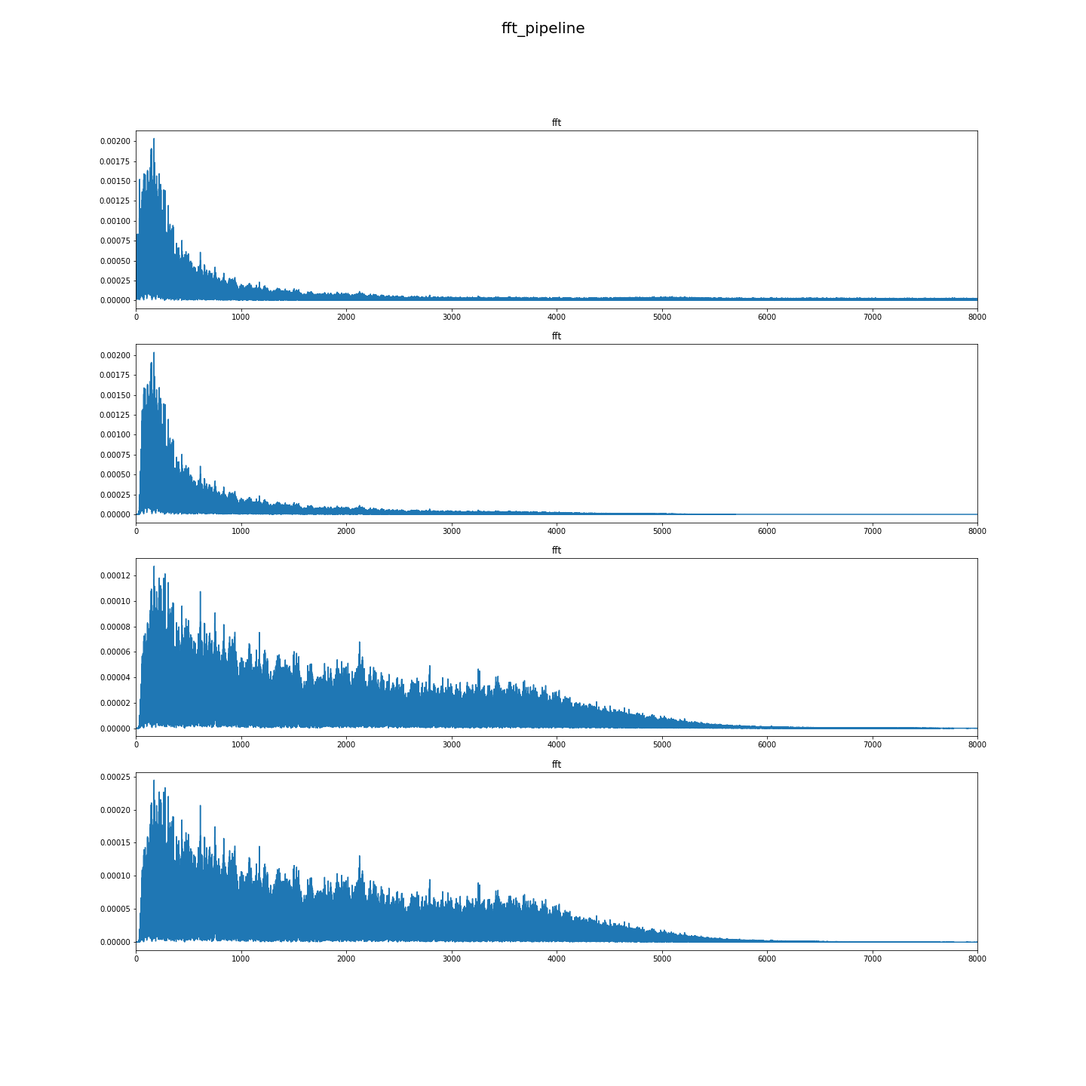
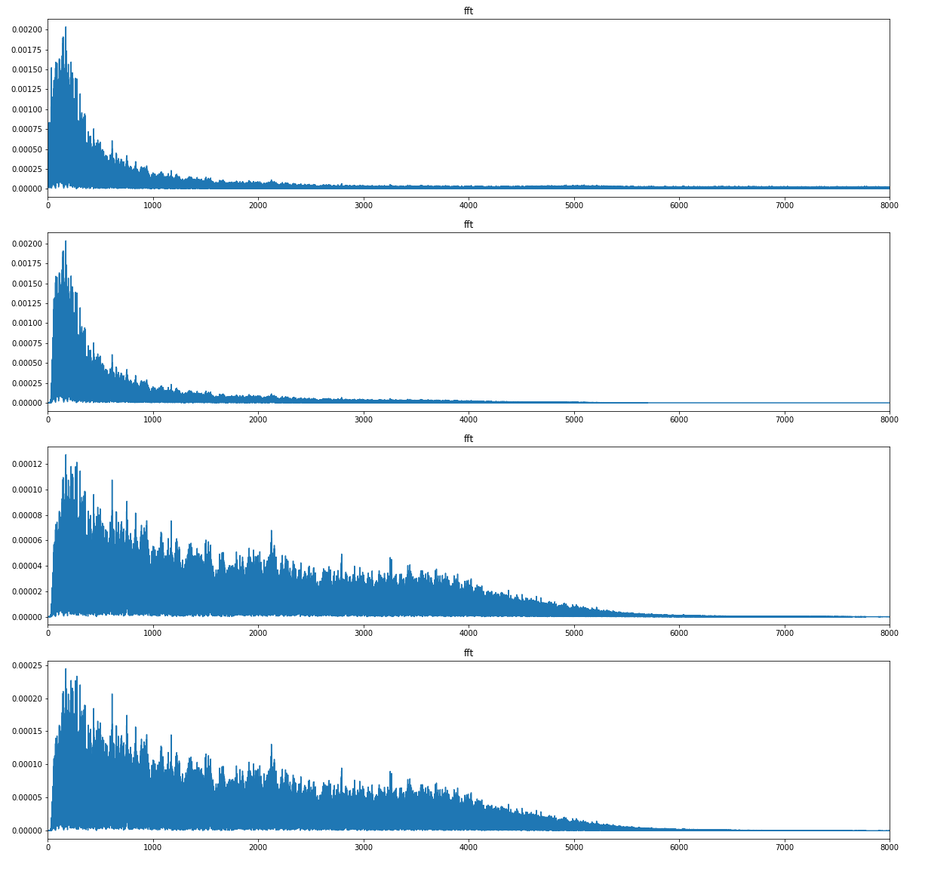
Introduction revised

diff --git a/evaluation.tex b/evaluation.tex
@@ -3,11 +3,11 @@
 Partial work on exploring pre-processing techniques, useful features and classifiers has been done before data is collected from real subjects. The tools and approaches applied for the current stage and the associated results are shown and evaluated as below.
 
 \section{System architecture}
-The system architecture consists of three major parts as shown in Figure \ref{fig:system_architecture}. Data preparation and pre-processing are included in the first part. The pre-processed data is then passed to the second part of the system for feature extraction to obtain the essence of the signal. The last part of the system is responsible for two jobs, classification and estimation. The classifier discriminates the segmentation based on the feature extracted and then estimates the respiration related information such as respiratory phase and frequency. 
+The system architecture consists of three major parts as shown in Fig. \ref{fig:system_architecture}. Data preparation and pre-processing are included in the first part. The pre-processed data is then passed to the second part of the system for feature extraction to obtain the essence of the signal. The last part of the system is responsible for two jobs, classification and estimation. The classifier discriminates the segmentation based on the feature extracted and then estimates the respiration related information such as respiratory phase and frequency. 
 
 \begin{figure}[h]
-    \centerline{\includegraphics[scale=0.45]{figures/system_architecture.png}}
-    \caption{system architecture}
+    \centerline{\includegraphics[scale=0.55]{figures/system_architecture.png}}
+    \caption{A diagram of the system architecture}
     \label{fig:system_architecture}
 \end{figure}
 
@@ -18,34 +18,34 @@ Instead of developing the system on the mobile platform straight away, the exper
 There were also various Python libraries used in this experiment. Librosa is a Python library focused on audio signal processing, it implements most of the popular signal processing approaches and enables easy access to the common spectral features. PyHHT and PyWT were also used for the implementation of Hilbert Huang transform and wavelet transform, respectively. Lastly, Matplotlib is great for visualisation and plots exporting. The spectrograms generated were used as an input for the convolution neural networks.
 
 \section{Dataset preparation}
-Prior to receiving the approval for the ethics application, the mock dataset was initially collected and created from the author during a short running outdoors. The test data consist of 4 .wav audio files which were recorded in 22050Hz with the Ios application named Audio Memos using IPhone 6 and the microphone in the original earpods . The duration of the files varies from 23 to 59 seconds. 
+Prior to receiving the approval for the ethics application, the mock dataset was initially collected and created from the author during a short running outdoors. The test data consist of 4 .wav audio files which were recorded in 22050Hz with the Ios application named Audio Memos using IPhone 6 and the microphone in the original earpods. The duration of the files varies from 23 to 59 seconds.
 
-The exhalation and inspiration segmentation contained in the audio file were manually labelled. However, the markers only represent when the exhalation and inhalation approximately begin. A more precised labelling could be obtained when having the referencing signal data from the actual data collection phase. An example of the test data with respiration phase labels is illustrated in Figure \ref{fig:audio_waveform}.
+The exhalation and inspiration segmentation contained in the audio file were manually labelled. However, the markers only represent when the exhalation and inhalation approximately begin. A more precised labelling could be obtained when having the referencing signal data from the actual data collection phase. An example of the test data with respiration phase labels is illustrated in Fig. \ref{fig:audio_waveform}.
 
 \begin{figure}[h]
     \centerline{\includegraphics[scale=0.35]{figures/audio_waveform.png}}
-    \caption{Audio signal with inhalation starting at yellow markers and exhalation starting at red markers }
+    \caption{An illustration of a respiratory sound signal with manual labelling. Inhalation starts at yellow markers. Exhalation starts at red markers.}
     \label{fig:audio_waveform}
 \end{figure}
 
 \clearpage
-\section{Pre-processing techniques}
-The complete pre-processing pipieline consist of 4 steps which were inspired by these studies.\cite{Lei2014Content-basedFeatures}\cite{Niu2019AState}\cite{Ren2015Fine-grainedSmartphones} The completed results after applying the full pre-processing techniques is shown in Figure \ref{fig:fft_pipeline}.
+\section{Signal processing methods}
+The complete pre-processing pipieline consist of 4 steps which were inspired by these studies.\cite{Lei2014Content-basedFeatures}\cite{Niu2019AState}\cite{Ren2015Fine-grainedSmartphones} The completed results after applying the full pre-processing techniques is shown in Fig. \ref{fig:fft_pipeline}.
 \begin{figure}[h]
-    \centerline{\includegraphics[scale=0.25]{figures/fft_pipeline.png}}
-    \caption{The results of applying the full pre-processing techniques}
+    \centerline{\includegraphics[scale=0.33]{figures/fft_pipeline.png}}
+    \caption{The results of applying the complete signal processing methods.}
     \label{fig:fft_pipeline}
 \end{figure}
 
 \subsection{Band-pass filter}
-The audio files was firstly passed into a band-pass filter which retained the signal with the frequency between 50Hz and 4000Hz. The frequencies that contained in these signals were also examined by applying fast Fourier transform as shown in . According to Figure \ref{fig:fft}, it was clearly shown that the major frequency range was 0-1000Hz.
+The audio files was firstly passed into a band-pass filter which retained the signal with the frequency between 50Hz and 4000Hz. The frequencies that contained in these signals were also examined by applying fast Fourier transform as shown in . According to Fig. \ref{fig:fft}, it was clearly shown that the major frequency range was 0-1000Hz.
 
 \begin{figure}[h]
-    \centerline{\includegraphics[scale=0.25]{figures/fft.png}}
-    \caption{Frequency components of the 4 audio signals}
+    \centerline{\includegraphics[scale=0.33]{figures/fft.png}}
+    \caption{Frequency components of four respiratory sound signals decomposed using Fast Fourier Transform}
     \label{fig:fft}
 \end{figure}
-\subsection{Emphasising}
+\subsection{Emphasis filter}
 To overcome the radiation effects caused mostly by the lips, the signals were applied with a pre-emphasised filter to increase the amplitude of the components in high frequency range. The emphasising was completed by following the convertion below.
 
 EQUATION HERE
@@ -64,51 +64,50 @@ As illustrated in last section, FFT shows the frequency range contained in a sig
 STFT is one of them. The idea behind short time Fourier transform is to apply fast Fourier transform on the signal with a sliding window of fixed length. The spetrogram is then converted to mel-sclaed spectrogram which has a better performance in modelling how humans percept low and high frequency. The comparison between STFT generated spectrogram and its mel-scaled spectrogram is shown in Figure \ref{fig:stft_mel-stft}. The mel-scaled spectrogram provides a more intuitive identification for exhalation than the original spectrogram. The red and yellow markers in the spectrogram represent when exhalation and inhalation begin. It clearly shows that most of the red markers perfectly align with one of the peak in the spectrogram. The red markers which do not associate with any peaks were also hard to distinguish through listening to the audio subjectivly. On the other hand, it is relatively impossible to recognise the inhalation through simply looking at the mel-scaled spectrogram.
 
 \begin{figure}[h]
-    \centerline{\includegraphics[scale=0.6]{figures/stft_mel-stft.png}}
-    \caption{stft vs mel-stft}
+    \centerline{\includegraphics[scale=0.62]{figures/stft_mel-stft.png}}
+    \caption{The spectrograms obtained from using STFT (top plot) and mel-scaled STFT (bottom plot). Inhalation starts at yellow markers. Exhalation starts at red markers.}
     \label{fig:stft_mel-stft}
 \end{figure}
 
-However, STFT is not good for non-stationary signals. Also it has to balance the trade off between the time resolution and frequency resolution. Continuous wavelet transform is a solution to model the relationship between time and frequency of a non-stationary signal. Continuous wavelets transform is a great solution for transient signals since it has good resolution in time and poor resolution in frequency at high frequency. It would be helpful to capture the transients features by adopting continuous wavelet transform. Different wavelet functions influence the results of spectrogram generation. There were three kinds (Gaus, Mexh and Morl) of continuous wavelet function experimented and the results are shown in Figure \ref{fig:wavelet_functions}. It is fairly difficult to identify which wavelet function gives a better result in presenting the signal.
+However, STFT is not good for non-stationary signals. Also it has to balance the trade off between the time resolution and frequency resolution. Continuous wavelet transform is a solution to model the relationship between time and frequency of a non-stationary signal. Continuous wavelets transform is a great solution for transient signals since it has good resolution in time and poor resolution in frequency at high frequency. It would be helpful to capture the transients features by adopting continuous wavelet transform. Different wavelet functions influence the results of spectrogram generation. There were three kinds (Gaus, Mexh and Morl) of continuous wavelet function experimented and the results are shown in Fig. \ref{fig:wavelet_functions}. It is fairly difficult to identify which wavelet function gives a better result in presenting the signal.
 \begin{figure}[h]
-    \centerline{\includegraphics[scale=0.25]{figures/wavelet_trans_wav_func.png}}
-    \caption{Applying different wavelet functions}
+    \centerline{\includegraphics[scale=0.45]{figures/wavelet_trans_wav_func.png}}
+    \caption{The result of applying different wavelet functions to a respiratory sound signal}
     \label{fig:wavelet_functions}
 \end{figure}
 
+\clearpage
 \subsection{Temporal features}
-Segmentation energy is the only temporal feature which has been implemented and evaluated so far. It helps to discriminate voiced and unvoiced segmentations. It could significantly reduce time spent in computation by disregarding the unvoiced segmentation in classification. The energy of the segmentation of a signal is shown in Figure \ref{fig:energy} This audio signal is 23s long containing 2678 segmentations. By setting energy threshold to the mean of the segmentation energy, only 309 segmentations were left still including most of around 90\% of the inhalation and exhalation segmentations. 
+Segmentation energy is the only temporal feature which has been implemented and evaluated so far. It helps sto discriminate voiced and unvoiced segmentations. It could significantly reduce time spent in computation by disregarding the unvoiced segmentation in classification. The energy of the segmentation of a signal is shown in Fig. \ref{fig:energy} This audio signal is 23s long containing 2678 segmentations. By setting energy threshold to the mean of the segmentation energy, only 309 segmentations were left still including most of around 90\% of the inhalation and exhalation segmentations. 
 Segmentation energy is an effective feature in screening voiced and unvoiced segmentation. 
+
+Equation here
 
 \begin{figure}[h]
     \centerline{\includegraphics[scale=0.35]{figures/energy.png}}
-    \caption{Energy of segmentations}
+    \caption{The blue line on the top plot represents the segmentation energy for all segmentations of a respiratory sound signal. The navy colour markers on the bottom plot correspond to the segmentations having higher energy than the energy threshold.}
     \label{fig:energy}
 \end{figure}
 
 \section{Data respresentation}
-In order to generate training data for CNN, the spectrogram of the audio files which represent the segmentations of inhalation and exhalation will be generated and saved in coresponding folders on the Google drive for easy access from Colaboratory. In total, there were 51 inhalation segmentations and 54 exhalation segmentation which were created from four respiration sound files. 20\% of the segmentation were randomly selected and then used as test data.
+In order to generate training data for CNN, the spectrogram of the audio files which represent the segmentations of inhalation and exhalation will be generated and saved in coresponding folders on the Google drive for easy access from Colaboratory. In total, there were 51 inhalation segmentations and 54 exhalation segmentation which were created from four respiration sound files. 20\% of the segmentation were randomly selected and then used as valid data. Partial dataset is shown in Fig. \ref{fig:dataset}
+
+\begin{figure}[h]
+    \centerline{\includegraphics[scale=0.8]{figures/dataset.png}}
+    \caption{Partial dataset (Spectrograms titled as 'in' represents an inhalation data. Spectrograms titled as 'out' represents an exhalation data.}
+    \label{fig:dataset}
+\end{figure}
 
 \section{Classification}
-To quickly investigate the feasibility of classifying respiration sound using audio files generated spectrograms, thrid-party deep learning library FastAI was selected for implementation. Instead of training a nerual network from scratch, resnet18 which is a variation of convolutional neural network was used for the purpose of transfer learning. 
+Being able to correctly discriminate the sound of inhalation and exhalation is the foundation of providing respiration-related information such respiratory phase and depth. To quickly explore the feasibility of classifying respiration sound using audio files generated spectrograms, FastAI was selected for implementation. FastAI is a high-level deep learning framework enables fast and easy process in deep learning model training and analysing. 
+
+Transfer learning allows taking advantage of past experience from previous training. FastAi provides pre-trained models for transfer learning without developing and training a nerual network from scratch. Resnet34 is a variation of convolutional neural network was used in this phase. \cite{He2016DeepRecognition}
+
+The performance of the training phase was evaluated through three characteristics training loss, valid loss and acciracy. The model was trained for 10 epochs and the final accuracy achieved over the validation dataset was 66\%. Even the loss on the training dataset decreased over the epochs but it was significantly higher than the loss on the validation dataset. It was likely to be a sign of underfitting which suggested that the model didn't learn enough characteristics for classification from the dataset prepared. It might also imply that the classification model is not ideal for respiration data. However, the classification results were obatined without fine-tunning. Approaches used to improve classifier's performance is described in the next chapter. 
 
 \begin{figure}[h]
     \centering
     \includegraphics[scale=0.6]{figures/classification_results.png}
-    \caption{Classification results}
+    \caption{Results after ten epochs training.}
     \label{fig:classification_results}
 \end{figure}
-
-Why the rate is low
-
-pre-processing approach filtered out some wanted frequency components
-
-dataset too small
-
-structure
-
-\section{Estimation}
-
-phase
-
-respiratory frequency how to calculate

diff --git a/review.tex b/review.tex
@@ -1,27 +1,33 @@
 \chapter{Review of Relevant Work}
 
 \section{Respiration in sport monitoring}
-As exercise begins, the increase in lung ventilation (breathing) is directly proportional to the intensity of exercise and metabolic needs. This is shown on the adjacent chart. Note that lung ventilation is expressed as the number of air inhalations (L / min) inhaled and exhaled per minute. Increase ventilation in two ways to meet your workout needs:1. The increase in "tidal volume" refers to the amount of air inhaled and exhaled per breath. This is similar to the "wheeze amount" in the cardiovascular system.2. The increase in "breathing or respiration rate" refers to the number of times each person completes inhalation and exhalation per minute. This is similar to the "heart rate" in the cardiovascular system. If exercise is intense, the breathing rate may increase from a typical rest rate of 15 breaths per minute to 40-50 breaths per minute. The most common measure of exercise and respiratory function is called VO2 (oxygen uptake). VO2 refers to the amount of oxygen absorbed and used by the body. With continuous exercises (duration longer than 1 minute), such as aerobic fitness, longer anaerobic fitness and lesser muscle endurance training, VO2 increases linearly with increasing exercise intensity. This is because as the movement continues, more and more oxygen is relied on to help provide energy. As the intensity of exercise continues to increase, one reaches the highest point beyond which oxygen consumption does not increase further. This point is called VO2 max, as shown in the figure below. The training type has medium intensity, lasts longer (longer than 1 minute), and has short or no rest throughout the process, which forms the so-called "EPOC". EPOC stands for "oxygen consumption after excessive exercise" and is related to the need to keep oxygen consumption at the end of the exercise at a rate greater than the resting rate to compensate for the oxygen "debt" generated at the beginning of the exercise. We will explain more about the chart below. It may take 10-20 minutes after exercise to restore normal breathing rate through hypertrophy training.
-
-Unlike other physiological measures, such as heart rate, blood pressure, and ECG signals, respiratory frequency is usually neglected during sports training monitoring. The study conducted by Nicolo et al suggested that respiratory frequency and physical effort has the strongest correlation compared to other physiological measures.\cite{Nicolo2017RespiratoryMeasure} The study showed that by extracting information from the respiration frequency, it is possible to analyse athletes' performance from an more advanced perspective.
-
+Minute ventilation is defined as the amount of air inhaled into body in one minute. It is expressed as the product of tidal volume and respiratory frequency. Tidal volume refers to the amount of air inhaled per breath. Respiration frequency is the number of breaths taken in one minute \cite{Zuurbier2009MinuteStudy}. The research conducted by Nicolo et al showed that breathing pattern is affected by the setting of training, such as intensity, duration and resting time \cite{Nicolo2018RespiratoryInterdependence}. As exercise begins, the increase in ventilation is directly proportional to the intensity of exercise in order to meet metabolic needs. The respiratory frequency may increase from a typical rest rate of 15 breaths per minute to 40-50 breaths per minute. Unlike other physiological measures, such as heart rate, blood pressure, and ECG signals, respiratory frequency is usually neglected during sports training monitoring. Respiratory frequency and physical effort has the strongest correlation compared to other physiological measures according to Nicolo et al \cite{Nicolo2017RespiratoryMeasure}. Their study also showed that by extracting information from the respiration frequency, it is possible to analyse athletes' performance from an more advanced perspective.
 
 \section{Respiration in clinical monitoring}
-
 Breathing is an essential activity for our body which allows the air exchange between the human body and the external environment. There are mainly two functions supported by the respiratory system, providing oxygen to the tissues of body and eliminate carbon dioxide from the tissues of the body. 
 
-Two common forms for breathing includes chest breathing and abdominal breathing. One complete breath cycle includes an inhalation and an exhalation. The number of breaths per minute is called the respiratory rate. Respiratory frequency refers to the number of breaths per minute. The respiratory frequency of an adult at rest is approximately 12-18 breaths per minute and 30-40 breaths per minute for children. Adults who have a respiratory frequency of more than 20 breaths per minute may be in unhealthy conditions. A respiratory frequency of over 24 breaths per minute indicates serious health issues. It was also reported that a respiratory frequency over 27 breaths per minute is very likely to associate with cardiac arrest.\cite{Cretikos2008OfMBA} Therefore, by detecting the respiratory frequency of the athletes after training, it is beneficial to ensure their health and timely detection of abnormal physical conditions. Therefore, respiratory frequency is an indicator of some serious illnesses.
+Two common forms for breathing includes chest breathing and abdominal breathing. One complete breath cycle includes an inhalation and an exhalation. Respiratory frequency refers to the number of breaths per minute. The respiratory frequency of adults at rest is approximately 12-18 breaths/minute and 30-40 breaths/minute for children at rest. Adults who have a respiratory frequency of more than 20 breaths/minute may be in unhealthy conditions. A respiratory frequency of over 24 breaths/minute indicates serious health issues. It was also reported that a respiratory frequency over 27 breaths/minute is very likely to associate with cardiac arrest \cite{Cretikos2008OfMBA}.  Therefore, by detecting the respiratory frequency of the athletes after training, it is beneficial to ensure their health and timely detection of abnormal physical conditions. Therefore, respiratory frequency is an informative indicator in clinical monitoring.
 
-\section{Methods for respiratory frequency measurement}
-Most of the solutions on the market are expensive and not suitable for everyday life, and some products are invasive, which is not available for outdoor use. The approaches widely used to measure respiratory frequency are mainly divided into two categories, one is direct measurement and the other is indirect measurement.The parameters considered in direct measurement includes respiratory airflow, respiratory sound, air temperature, air humidity and air components, chest-wall movement, cardiac activity (electrocardiography and photoplethysmography) are considered in indirect measurement. 
-\cite{Massaroni2019Contact-BasedRate} 
+\section{Methods of measuring respiratory frequency}
+Most of the solutions on the market are expensive and not suitable for everyday life, and some products are invasive, which is not available for outdoor use. The approaches widely used to measure respiratory frequency are mainly divided into two categories, one is direct measurement and the other is indirect measurement.
 
-These two types of solutions have very clear concerns. In the study completed by Massaroni, the accuracy and main advantages and disadvantages of these methods in different environments were compared. Breathing airflow-based solutions have the best performance in terms of accuracy, but they are invasive and inconvenient to use outdoors or in unstructured environments. Solutions based on air temperature, humidity and composition can provide sufficient accuracy, but are greatly affected by the environment, whether indoors or outdoors. However, solutions based on chest motion and cardiac activity can support acceptable measurements both indoors and outdoors, depending on the implementation, but if the accuracy is disturbed by motion. Respiratory sound-based solutions are also of interest to this research, providing adequate measurement performance both indoors and outdoors, but are susceptible to environmental disturbances. As the popularity of smartphones grows, more and more sports and medical-related applications appear on mobile platforms.
+The parameters considered in direct measurement includes respiratory airflow, respiratory sound, air temperature, air humidity and air components, chest-wall movement, cardiac activity (electrocardiography and photoplethysmography) are considered in indirect measurement \cite{Massaroni2019Contact-BasedRate}.
+
+These two types of solutions have very clear concerns. 
+
+In the study completed by Massaroni, the accuracy and main advantages and disadvantages of these methods in different environments were compared.
+
+Breathing airflow-based solutions have the best performance in terms of accuracy, but they are invasive and inconvenient to use outdoors or in unstructured environments. 
+
+Solutions based on air temperature, humidity and composition can provide sufficient accuracy, but are greatly affected by the environment, whether indoors or outdoors. 
+
+However, solutions based on chest motion and cardiac activity can support acceptable measurements both indoors and outdoors, depending on the implementation, but if the accuracy is disturbed by motion. 
+
+Respiratory sound-based solutions are also of interest to this research, providing adequate measurement performance both indoors and outdoors, but are susceptible to environmental disturbances. As the popularity of smartphones grows, more and more sports and medical-related applications appear on mobile platforms.
 
 Of all the solutions mentioned above, only the breathing sound is the easiest to collect indoors and outdoors, because only the microphone is needed, and other parameters require additional sensors to acquire, which creates an additional barrier for measuring respiratory rate. . If it is possible to reduce noise from the surrounding environment, it is possible to expand the method based on breathing sound and improve accuracy. This is also one of the main goals of this research.
 
-
-\section{Applications for extraction of respiration information}
+\section{Applications of extracting respiration information}
 A vast amount of studies have proven that the acoustic signals of breathing carry a lot of information about human health that can be used in classifiers to identify unhealthy people and determine the severity of the disease. In these studies, commercial headset microphones or smartphones built-in microphones. According to their experimental results, the signals collected by these devices are enough to be used to extract respiratory-related information. The researches that utilise the acoustic respiratory signal for different applications are reviewed as followed as guidelines for this study.
 
 \subsection{Disease screening}

diff --git a/summary.tex b/summary.tex
@@ -1,81 +1,39 @@
-\chapter{Summary and Future Research Plan}
+\chapter{Summary and Plan of Future Research}
 \section{Summary}
 So far, after a large number of relevant research literatures have been evaluated and the analytical methods used in the relevant studies have been considered, this study decided to use the spectrogram generated by the respiratory sound signal to estimate the frequency of breathing with CNN, to determine the stage of breathing and The depth of breathing. The work currently done includes the development of ethics proposal, the collection and labelling of test data, and the use of Colaboratory for prototyping of different signal processing, dataset generation and classifier processes. The results of the tests show that the data sets generated by manual annotation are sufficient for training of classification, and the various methods used in the signal processing flow are very effective. The signal processing flow preserves the respiratory-related frequency components while removing unwanted frequency components. Finally, through the transfer learning, using the Resent model provided by Fastai to distinguish whether a sound is an exhalation sound or an inhalation sound. The performance of the classifier trained with the test data achieved over 50\% accuracy without any fine tuning. After being able to judge the breathing phase, the frequency of breathing can be estimated accordingly.
-\section{Future research plan}
-Future research work focuses on preparing data, comparing other combinations of signal processing methods, and various machine learning, such as support vecter machine. The details of each of the focuses is discussed in the follow sections.
-\subsection{Dataset generation}
+\section{Plan of future research}
+Future research work focuses on preparing dataset, comparing other combinations of signal processing approaches, and various machine learning model, such as support vecter machine and random forest. The details of each of the focuses is discussed in the follow sections.
 
-labelling where the in/out starts by aligning the audio signal with the reference signal
+\subsection{Dataset preparation}
 
-Conventional data augmentation includes scaling, stratching, cropping and etc. However, the data augmentation for audio-generated spectrogram image uses completely different mechanisims.
+The classifier's performance was likely affected by the inaccurate and uncompleted labelling on the signal. It is crucial to have a clear idea that when the inhalation and exhalation start and end. Thus, the labelling work at next phase will be carried out by aligning the acoustic respiration signal with the reference signal. Also different size of segmentation would be tested.
 
-\subsection{Signal pre-processing}
-segmentation size
+The purpose of data augmentation is to increase the variety of the dataset especially when the dataset is small. Conventional data augmentation methods includes applying scaling, stratching, cropping on the original images. However, the data augmentation for audio-generated spectrogram image follows different methodologies. Data augmentation has not yet been implemented in this work. However, some research has been done in exploring approaches creating additional data based on existing dataset.\cite{Cho2017DeepBreathSettings} \cite{Schluter2015ExploringNetworks} According to the study undertaken by Schluter and Grill, the most effective augmentation approach is pitch shifting. By also combining the time stretching and random frequency filtering, it could reduced the error signifcantly between 10 and 30\%.\cite{Schluter2015ExploringNetworks}
 
+\subsection{Signal processing}
+new signal processing methods like Hilbert huang transform
 
-Hilbert huang transform
+A results-driven methodology will be applied by evaluating the classification results from different combination of signal processing 
 
-explore different combination of signal processing approach
+To find the most effective 
 
 \subsection{Feature extraction}
-Excepting  
-
-ddiscriminating the respiratory phase 
-
-LPC feature
-
-perceptual feature (Per)
-
-cepstral (Cep) features
-
-perceptual and cepstral (PerCep) features 
-
-enhanced hybrid perceptual and cepstral (PerCepD) features.
-
-spectural bandwidth
-spectral rolloff
-spectral centriod
-spectral contrast
-spectral flatness
-spectral mfcc
-spectral mfcc delta
-spectral mfcc delta of delta
-
-\subsection{Data augmentation}
-The purpose of data augmentation is to increase the variety of the dataset especially when the dataset is small. Unlikely traditional image augmentation, cropping, zooming and scaling do not work well and even creating data with misleading labels. 
-
-Data augmentation has not yet been implemented in this work. However, some research has been done in exploring approaches creating additional data based on existing dataset.\cite{Cho2017DeepBreathSettings} \cite{Schluter2015ExploringNetworks}
-
-According to the study undertaken by Schluter and Grill, the most effective augmentation approach is pitch shifting. By also combining the time stretching and random frequency filtering, it could reduced the error signifcantly between 10 and 30\%.\cite{Schluter2015ExploringNetworks}
+Apart from classifying the respiratory sound based on audio-generated spectrograms it is also one of the objectives to achieve the classification with shallow features. Lei suggested that a combination of different categories of feature outperform a individual catergory of feature.\cite{Lei2014Content-basedFeatures} An enhanced features set including LPC, perceptual and cepstral features were created in their experiment. A number of spectral features are implemented in Librosa library, such as spectral bandwith, spectral mfcc and spectral mfcc delta. The information gain of the features would be evaluated in order to create the most relevant feature sets for the detection of the breathing sound.
 
 \subsection{Classification}
-continue to use CNN when formal data is collected
-experiment other machine learning for performance comparasion
+The classifier experimented has show a great potential in discriminating respiratory sound. It is planed to continue to use Resnet34 when formal data is collected at the next phase. More work will be carried on experimenting different hyper-parameters such as learning rate, number of layers and so on to solve the issue of under-fitting at present.
 
-SVN
+As mentioned above, this study also aims to experiment with other machine learning models for performance comparison, such random forest and support vector machine. 
 
-random forest and support vector machine
-
-information gain
-combination of different features
-
+\subsection{Estimation}
+Respiratory frequency is defined as 60/(time interval between current and previous breath (seconds) (5.1))\cite{Mason2002SignalMonitoring}
 
 \subsection{Mobile application development}
+Once the prototyped classifier's performance is satisfying, it is aimed to transfer the complete solution to mobile platform to provide respiration-related information in real-time. By taking advantage of FastAI, the model created and trained could be directly exported to Ios system via CoreML with no training required on the mobile devices.
 
-The model created and trained with Fastai will then be exported to Core ML which is a machine learning suite provided by Apple.
+Due to the limitation of resource in computing, computational complexity should be taken into account. Therefore, it requires some optimisation for balance the performance regarding the time taken in classification and its accuracy. For example, down-sampling the signal and downsizing the segmentation are both able to reduce the space required to represent the data. Moreover, the experiment conducted by Niu et al showed a great performance of using grey-scaled spectrogram in classifying breathing signal from subjects with different mental states.\cite{Niu2019AState} So it is valuable to transfer the coloured spectrogram to grey-scaled in future training. 
 
-To transfer the complete solution to mobile platform where the computation resource is limited. 
-
-CNN image grey scale
-CNN levels
-
-High sampling rate results in large audio files which requires a lot of computing resource 
+Excepting manipulating the data size needed to be processed, having a deep learning model with less layers is able to reduce the computational complexity. The research undertaken by Ravi et al suggested a high performance and mobile friendly solution by utilising the combined feature set of features learnt from CNN and shallow features.\cite{Ravi2017ADevices}sThis approach would be take into account if the classifier's performance drops after adjust its structure.
 
 
-It is necessary to explore 
 
-aim to provide respiration-related information in real-time. therefore data size and computational complexity and time taken should be taken into account.
-
-It might require some optimisation for fulfil the requirements. either reduce the size of the data used to represent or reduce the number of layers
-
-also try embedded model (weighted model)

diff --git a/introduction.tex b/introduction.tex
@@ -1,22 +1,19 @@
 \chapter{Introduction}
 \section{Aim}
-The market has great demand for affordable, easy-to-use devices that can be used indoors and outdoors for respiratory frequencies measurement. This research aims to develop a mobile application that utilises the acoustic respiration signals collected by a headset’s microphone to estimate the respiratory frequency and detect the respiratory phase. The application is designed to be capable of delivering reliable results indoors and outdoors in real time.
+The market has great demand for reliable, portable and affordable instruments that is capable for respiratory frequency measurement indoors and outdoors. This research aims deliver an alternative solution by developing a mobile application that utilises the acoustic respiration signals collected from a headset’s microphone to estimate the respiratory frequency and detect the respiratory phase in real-time. 
 
 \section{Motivation}
-In areas such as sports training monitoring and clinical monitoring, respiratory frequency is a significant indicator because it carries a lot of useful information about athletes' performance and potential diseases. It is also essential to identify the respiratory phase, which can help us analyse the user's breathing pattern, thus helping them to improve their breathing approaches and achieve the goal of improving their performance. The conventionally applied principles of estimating respiratory frequency mostly measure the airflow of breathing, the expansion of the chest wall and abdominal cavity, and the air temperature or humidity around the nose.\cite{Massaroni2019Contact-BasedRate} Most of the commercially available products are expensive and complicated, which is not suitable for daily-life usage. There have been many studies demonstrating that the acoustic signal of respiration contains enough features for the estimation of respiratory frequency and the detection of the respiratory phase.\cite{Hamke2019DetectingMachines} \cite{Kaur2017UseRespiration}\cite{Ren2015Fine-grainedSmartphones} It suggests a user-friendly, low-cost, and reliable solution to extract respiration-related information from respiration sound. 
+In areas such as sports training monitoring and clinical monitoring, respiratory frequency is a significant measure because it contains informative indicators about athletes' performance and potential diseases. Efficient breathing approaches could contribute to athletes' performance, thus it is also essential to identify respiratory phases and analyse breathing patterns. Methods of estimating respiratory frequency widely applied include measuring the airflow of breathing, the expansion of chest wall and abdominal cavity, and the air temperature or humidity around nose \cite{Massaroni2019Contact-BasedRate}. Most of commercially available products are expensive and complicated, which are not suitable for daily-life usage. 
+
+Being able to classify inhalation sound and exhalation sound is the foundation of estimating respiratory frequency and detecting respiratory phase. There have been many studies demonstrating that acoustic respiration signal contains enough features for being used in discriminating inhalation sound and exhalation sound \cite{Hamke2019DetectingMachines}\cite{Kaur2017UseRespiration}\cite{Ren2015Fine-grainedSmartphones}. It suggests a user-friendly, low-cost, and reliable solution to extract respiration-related information from respiration sound. 
 
 \section{Objectives}
-The gold standard device for measuring respiratory frequency is a mask for measuring the amount of lung respiration. This device covers a person's nose and mouth with a mask, and then measures the respiratory rate and respiration according to the air throughput in the mask. informational. However, our method requires placing the microphone between the mouth and the nose, and it is also surrounded by the mask. The respiratory acoustic signal collected by the microphone and the signal collected without the mask will be quite different, because the background noise is somewhat isolated by the mask. At the same time, the mask is not suitable for outdoor measurements. Therefore, we need a measurement tool that is also a comparison tool that does not cover the mouth and nose and can work outdoors. There are many such solutions on the market, such as vests that use the chest and abdomen to expand as they breathe. Although some work has verified the effectiveness of these products, their experiments are not objective enough. Therefore, the first objective is to 
+To investigate the feasibility of bringing a low-cost, intuitive and portable respiration monitoring solution. The major objective of this study is
 \begin{itemize}
-\item compare the difference in accuracy between the band and the mask in estimating respiratory frequency while running and standing still
+\item to design and develop a mobile-friendly solution that estimates respiratory frequency and determine respiratory phase and respiratory depth by utilising the acoustic respiration signal collected from headset’s microphone during running or resting.
 \end{itemize}
 
-To investigate the performance of the product when measuring different respiratory frequency, the second objective is 
+It is also required to have respiratory frequency measures from other industry standard or gold standard instruments for labelling and referencing. The instruments used as comparison should not obstruct the respiratory sound collecting process, for example covering nose and month area. There are some solutions meeting our requirements, such as Equivital TnR suite which is selected as an industry standard instrument in this study \cite{equivital}. Although some work has been undertaken to validate Equivital TnR suite, it is still worthy to compare its performance against another gold standard instrument while being used in various scenarios In this case, Squark b2 from COSMED is selected \cite{cosmed}. Thus, the next objective is 
 \begin{itemize}
-\item to compare the difference in accuracy between the band and the mask in estimating respiratory frequency while standing still and breathing at various frequencies
-\end{itemize}
-
-To investigate the feasibility of bringing a cost-friendly, intuitive and portable respiration monitoring solution. The last objective of this study is
-\begin{itemize}
-\item to design and develop a mobile-friendly combined solution of signal processing and machine learning that estimates the respiratory frequency and determine the breathing phase and breathing depth by utilising the acoustic respiration signal collected from headset’s microphone during running or resting.
+\item to compare the difference in accuracy between Equivital TnR suite and Cosmed Squark b2 in estimating respiratory frequency while standing and running. 
 \end{itemize}

diff --git a/main.tex b/main.tex
@@ -7,6 +7,7 @@
 
 \graphicspath{ {./figures/} }
 \addbibresource{references.bib}
+\addbibresource{additional_references.bib}
 
 \setlength{\parindent}{0em}
 \setlength{\parskip}{1em}
@@ -24,7 +25,7 @@
     \begin{center}
  
         \Huge
-        \textbf{To Extract Respiration Information During Running and Resting with a Smartphone by Using the Acoustic Respiration Signal Collected from a Headset’s Microphone}
+        \textbf{To Extract Respiratory Information During Running and Resting with a Smartphone by Using the Acoustic Respiration Signal Collected from a Headset’s Microphone}
  
         \LARGE
         Mini Thesis for Probation Review
